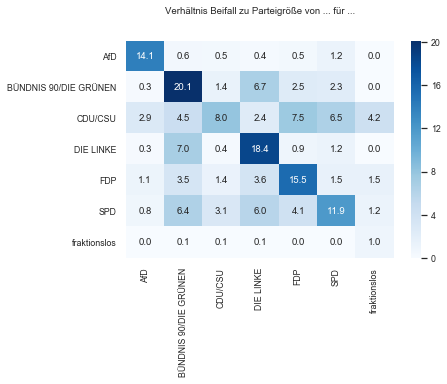
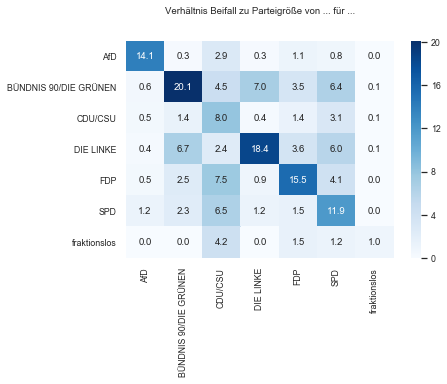
Transpose dataframe before plotting heatmap for correct indexing in heatmap

diff --git a/data_preparation.py b/data_preparation.py
@@ -154,7 +154,8 @@ def extract_commenting_party(comment):
                 dict_all[party_from][comment['speaker']] += int(max(seats_total[party_from]*attendance_rate*percentage_participating, 1))
                 
         if not party_found:
-            print(f'Error: no party commenting could be found for comment: {sub_action}!')
+            pass
+            # print(f'Error: no party commenting could be found for comment: {sub_action}!')
         
     return dict_all
 
@@ -223,7 +224,8 @@ def extract_applauding_party(comment):
             if sub_comment == "Beifall" or sub_comment == "Beifall im ganzen Hause" or sub_comment == "Beifall bei Abgeordneten im ganzen Hause":
                 matching = all_parties
         if len(matching) == 0:
-            print(f'Error: no party applauding could be found for comment: {sub_comment}!')
+            pass
+            # print(f'Error: no party applauding could be found for comment: {sub_comment}!')
     return matching
 
 
@@ -310,7 +312,8 @@ def extract_laughing_party(comment):
             dict_all["BÜNDNIS 90/DIE GRÜNEN"][comment['speaker']] += int(max(seats_total["BÜNDNIS 90/DIE GRÜNEN"]*attendance_rate*percentage_participating, 1))
         
         if not party_found:
-            print(f'Error: no party commenting could be found for comment: {sub_action}!')
+            pass
+            # print(f'Error: no party commenting could be found for comment: {sub_action}!')
         
     return dict_all
 
@@ -352,7 +355,7 @@ def initialize(comment_list):
 
 def create_heatmap(dict_parties, label):
     # convert nested dict to dataframe using pandas
-    df = pd.DataFrame.from_dict(dict_parties)
+    df = pd.DataFrame.from_dict(dict_parties).transpose()
     df = df.reindex(sorted(df.columns), axis=1)
 
     sns.set(font_scale=0.8)
@@ -410,7 +413,6 @@ if __name__ == "__main__":
     
     dict_laughter_total = get_data_matrix_laughter(comment_list_filtered, relative=False)
     create_heatmap(dict_laughter_total, 'absolute Anzahl an Lachen')
-
 
     dict_applause = get_data_matrix_applause(comment_list_filtered, relative=True)
     create_heatmap(dict_applause, 'Verhältnis Beifall zu Parteigröße')
